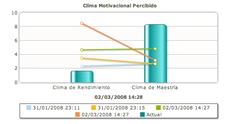
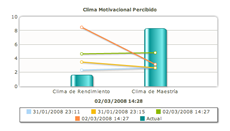
intro+

diff --git a/teskal/trunk/public/stylesheets/glider.css b/teskal/trunk/public/stylesheets/glider.css
@@ -8,7 +8,7 @@ margin-left: 84px;
 div.scroller {
 	/* modify width and height of scrolling section if necessary */
 width:635px;
-height: 410px;
+height: 360px;
 overflow: hidden;
 border: 1px solid #cccccc;
 padding: 0em 2em 0em 2em;
@@ -16,7 +16,7 @@ padding: 0em 2em 0em 2em;
 div.scroller div.section {
 	/* modify width and height of each section as needed (should match the size of the scroller window) */ 
 width:635px;
-height: 410px;
+height: 360px;
 overflow: hidden;
 float: left;
 padding: 2em;
@@ -37,4 +37,14 @@ color: #444;
 background-color: inherit;
 font-family: "Gill Sans","Lucida Grande", "Times New Roman", Times, serif;
 }
-
+.columnwrapper {
+	width: 600px;
+	margin: 30px 0 30px 30px;
+	float: left;
+}
+.cols1_1, .cols1_2, .cols1_3 {
+	width: 250px;
+	float: left;
+	padding-top: 20px;
+	padding-left: 50px;
+}

diff --git a/teskal/trunk/public/stylesheets/application.css b/teskal/trunk/public/stylesheets/application.css
@@ -110,6 +110,12 @@ margin: 0px;
 padding: 0;
 height: 28px;
 background-image: url(../images/head2_stripe_br.gif);
+} 
+#head_lang_ca {
+margin: 0px;
+padding: 0;
+height: 28px;
+background-image: url(../images/head2_stripe_ca.gif);
 }
 #header a {
 color: #fff;

diff --git a/teskal/trunk/app/controllers/welcome_controller.rb b/teskal/trunk/app/controllers/welcome_controller.rb
@@ -3,7 +3,7 @@
 
 class WelcomeController < ApplicationController
   layout 'base'
-  skip_before_filter :check_if_login_required, :only => [:signup_done, :index, :lost_email_sent, :chart1, :chart2, :chart3, :chart4, :chart5, :chart6]
+  skip_before_filter :check_if_login_required, :only => [:signup_done, :index, :lost_email_sent, :chart1, :chart2, :chart3, :chart4, :chart5, :chart6, :chart7, :chart8]
   def index
 
     # @projects = Project.laquest logged_in_user
@@ -13,9 +13,7 @@ class WelcomeController < ApplicationController
 
   def chart1
     strXML=''
-    #Generate the chart element
-    # labelDisplay='Stagger' staggerLines='2'
-    strXML = "<chart palette='2' caption='"+l(:quest1_label_30)+"'showvalues='0'  decimalSeparator=',' formatNumberScale='0' legendAllowDrag='1' yAxisMinValue='36' yAxisMaxValue='72' showShadow='1'  useRoundEdges='1' showAlternateHGridColor='1' alternateHGridColor='f8f6f4' bgcolor='ffffff' borderColor='ffffff' chartRightMargin='35'>"
+    strXML = "<chart palette='2' caption='"+l(:quest1_label_30)+"' xAxisName='"+l_datetime(Time.now)+"'showvalues='0'  decimalSeparator=',' formatNumberScale='0' legendAllowDrag='1' yAxisMinValue='36' yAxisMaxValue='72' showShadow='1'  useRoundEdges='1' showAlternateHGridColor='1' alternateHGridColor='f8f6f4' bgcolor='ffffff' borderColor='ffffff' chartRightMargin='35'>"
     strXML = strXML +"<categories>"
     strXML = strXML + "<category label= '"+l(:quest1_label_1)+"'/>"
     strXML = strXML + "<category label= '"+l(:quest1_label_2)+"'/>"
@@ -40,7 +38,7 @@ class WelcomeController < ApplicationController
 
   def chart2
     strXML=''
-    strXML ="<chart palette='2' caption='"+l(:quest1_label_31)+"'showvalues='0'  formatNumberScale='0' legendAllowDrag='1' showShadow='1'  useRoundEdges='1' yAxisMaxValue='100'  showAlternateHGridColor='1' alternateHGridColor='f8f6f4' bgcolor='ffffff' borderColor='ffffff' >"
+    strXML ="<chart palette='2' caption='"+l(:quest1_label_31)+"' xAxisName='"+l_datetime(Time.now)+"'showvalues='0'  formatNumberScale='0' legendAllowDrag='1' showShadow='1'  useRoundEdges='1' yAxisMaxValue='100'  showAlternateHGridColor='1' alternateHGridColor='f8f6f4' bgcolor='ffffff' borderColor='ffffff' >"
     strXML = strXML +"<categories>"
     strXML = strXML + "<category label= '"+l(:quest1_label_18)+"'/>"
     strXML = strXML + "<category label= '"+l(:quest1_label_19)+"'/>"
@@ -117,6 +115,31 @@ class WelcomeController < ApplicationController
     strXML = strXML + "<dataset SeriesName='"+l_datetime(Time.now-6000000)+"' lineThickness='2' renderAs='Line' ><set value='8.5'/><set value='3.16'/></dataset>"
     strXML = strXML +  "<dataset SeriesName='"+l(:quest3_label_10)+"' renderAs='Bar' ><set value='1.66'/><set value='8.33'/></dataset></chart>"
     @chart= renderChart("/charts/MSCombi2D.swf"+l(:PBarLoadingText), "", strXML, "quest12", 480, 300, false, false)
+  end
+
+  def chart7
+    strXML = "<chart caption='"+l(:quest2_label_0)+"' yAxisName='"+l_datetime(Time.now)+"' palette='2' yAxisMinValue='-10' yAxisMaxValue='10' showShadow='1' use3DLighting='1' legendAllowDrag='1' useRoundEdges='1' noValue='0' showValues='0' bgcolor='ffffff' borderColor='ffffff' numDivLines='7'>"
+    strXML = strXML + "<set label='" + l(:quest2_label_1) + "' value='-1.66'/>"
+    strXML = strXML + "<set label='" + l(:quest2_label_2) + "' value='-0.93'/>"
+    strXML = strXML + "<set label='" + l(:quest2_label_3) + "' value='-6.66'/>"
+    strXML = strXML + "<set label='" + l(:quest2_label_4) + "' value='7.5'/>"
+    strXML = strXML + "<set label='" + l(:quest2_label_5) + "' value='6.25'/>"
+    strXML = strXML + "<set label='" + l(:quest2_label_6) + "' value='9.66'/>"
+    strXML = strXML + "<set label='" + l(:quest2_label_7) + "' value='9.15'/>"
+    strXML = strXML + "</chart>"
+    @chart= renderChart("/charts/Bar2D.swf"+l(:PBarLoadingText), "", strXML, "quest2", 550, 300, false, false)
+  end
+
+  def chart8
+    strXML = "<chart caption='"+l(:quest11_label_0)+"' yAxisName='"+l_datetime(Time.now)+"' palette='2' yAxisMaxValue='10' showShadow='1' use3DLighting='1' legendAllowDrag='1' useRoundEdges='1' noValue='0' showValues='0' bgcolor='ffffff' borderColor='ffffff'>"
+    strXML = strXML + "<set label='" + l(:quest11_label_1) + "' value='6.54'/>"
+    strXML = strXML + "<set label='" + l(:quest11_label_2) + "' value='6.98'/>"
+    strXML = strXML + "<set label='" + l(:quest11_label_3) + "' value='3.57'/>"
+    strXML = strXML + "<set label='" + l(:quest11_label_4) + "' value='3.92'/>"
+    strXML = strXML + "<set label='" + l(:quest11_label_5) + "' value='1.42'/>"
+    strXML = strXML + "<set label='" + l(:quest11_label_6) + "' value='4.1'/>"
+    strXML = strXML + "</chart>"
+    @chart= renderChart("/charts/Bar2D.swf"+l(:PBarLoadingText), "", strXML, "quest11", 600, 300, false, false)
   end
 
   def signup_done
